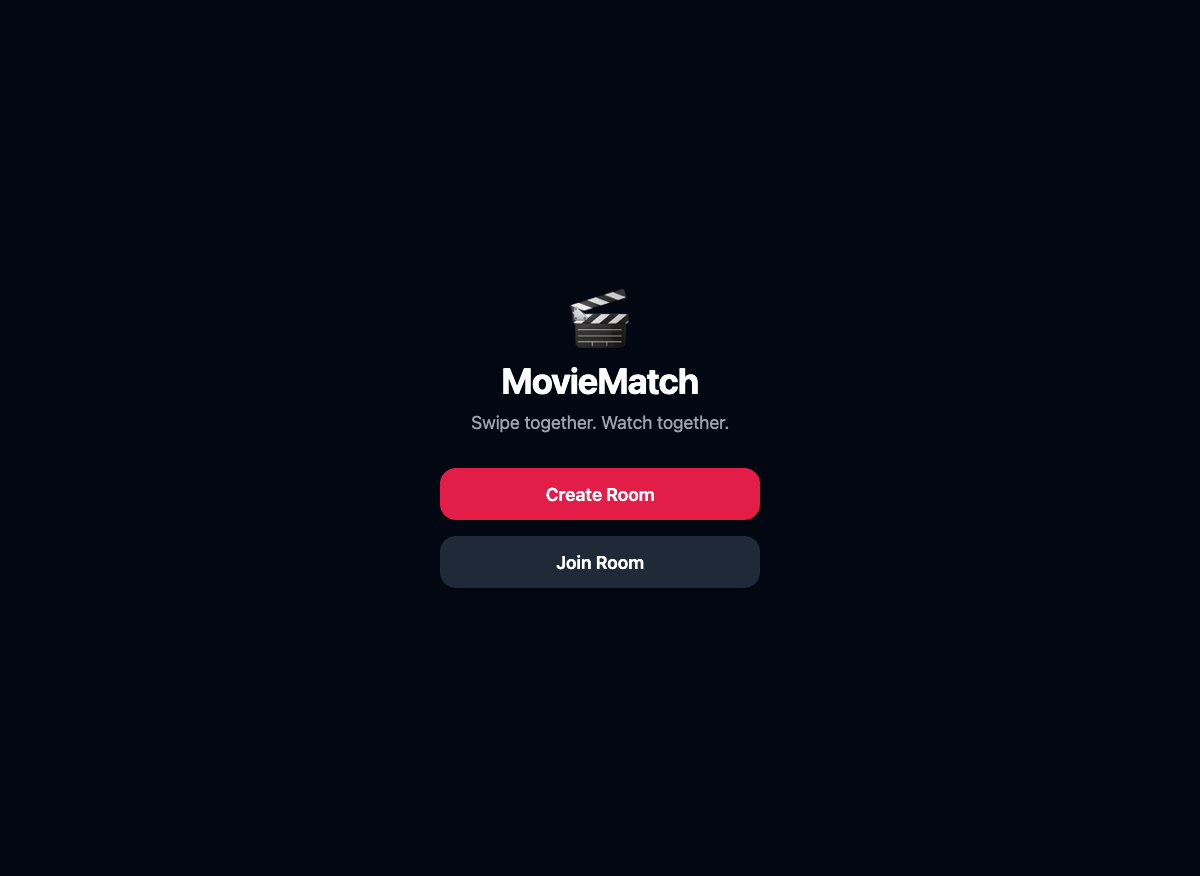
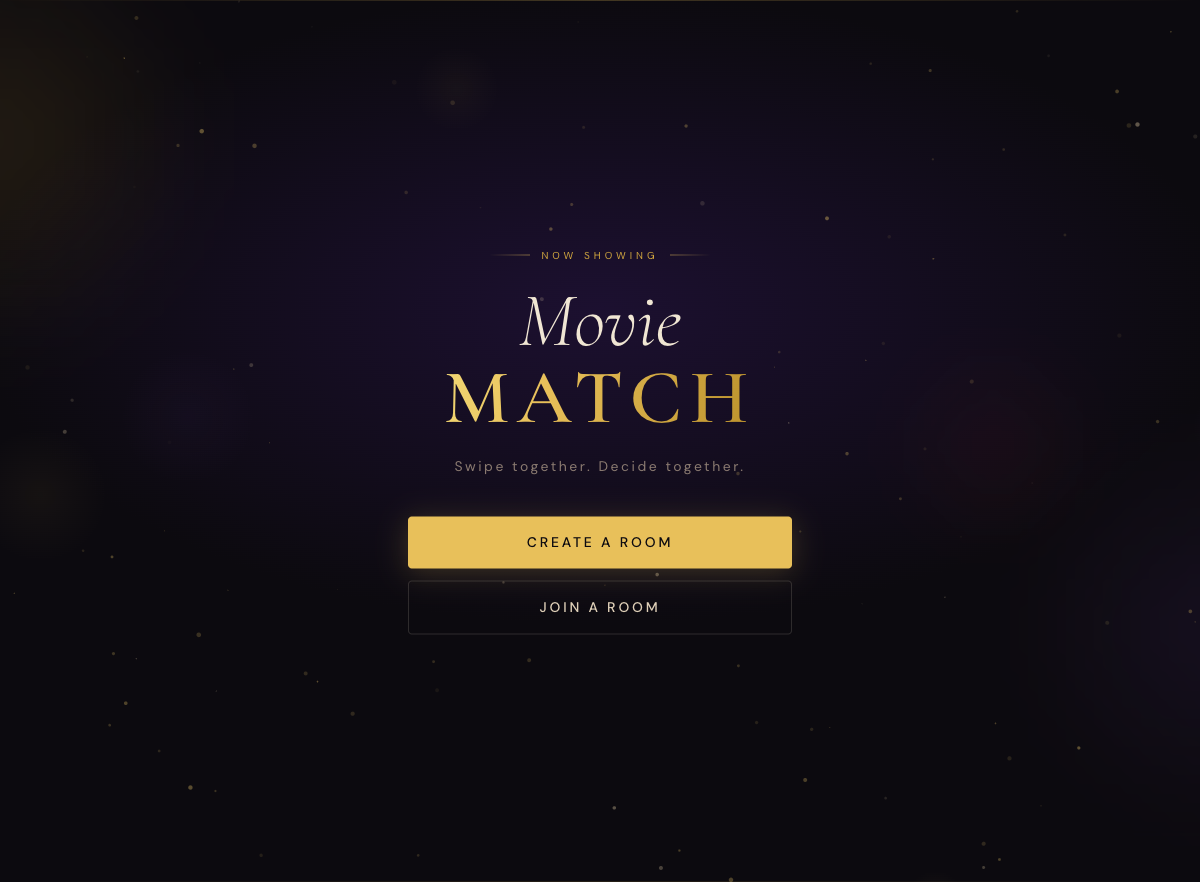
Update README and CLAUDE.md with new design, features, and screenshots
- Refreshed all screenshots to reflect the cinema noir redesign
- Added screenshots for filters form and match modal
- Updated README with Filters section, new Swiping/Joining details,
  and Vercel deployment notes
- Expanded CLAUDE.md with design system tokens, full socket event table,
  create-room payload schema, and detailed component descriptions
- Fix: emit partner-joined to joiner so both players see connected status

diff --git a/server/index.js b/server/index.js
@@ -65,10 +65,11 @@ io.on('connection', (socket) => {
     socket.join(room.id);
     socket.emit('room-joined', { roomId: room.id, movies: room.movies });
 
-    // Notify the creator
+    // Notify the creator and confirm to the joiner that their partner (creator) is present
     const creatorId = room.users.find(id => id !== socket.id);
     if (creatorId) {
       socket.to(room.id).emit('partner-joined');
+      socket.emit('partner-joined');
     }
     console.log('room joined', room.id, 'by', socket.id);
   });

diff --git a/README.md b/README.md
@@ -8,8 +8,8 @@ A real-time two-player movie swiping app. Both people swipe through movies simul
 
 ## How It Works
 
-1. One person creates a room and picks a genre
-2. They share the 6-letter room code with their partner
+1. One person creates a room and applies filters (genre, year, runtime, rating, language, age rating)
+2. They share the 6-letter room code — or just paste the full link
 3. Both swipe through the same 20 movies at their own pace
 4. When both swipe right on the same movie — match!
 
@@ -21,17 +21,21 @@ A real-time two-player movie swiping app. Both people swipe through movies simul
 
 ![Home](docs/screenshot-home.png)
 
-**Pick a Category**
+**Filters & Room Setup**
 
-![Category Picker](docs/screenshot-category.png)
+![Filters](docs/screenshot-filters.png)
+
+**Join a Room**
+
+![Join Room](docs/screenshot-join.png)
 
 **Swiping**
 
 ![Swiping](docs/screenshot-swiping.png)
 
-**Join a Room**
+**It's a Match**
 
-![Join Room](docs/screenshot-join.png)
+![Match](docs/screenshot-match.png)
 
 ---
 
@@ -42,7 +46,7 @@ A real-time two-player movie swiping app. Both people swipe through movies simul
 | Frontend | React 18, Vite, Tailwind CSS |
 | Backend | Node.js, Express, Socket.io |
 | Movies API | TMDB (The Movie Database) |
-| Deployment | Railway (backend) + any static host (frontend) |
+| Deployment | Railway (backend) + Vercel (frontend) |
 
 ---
 
@@ -104,16 +108,16 @@ movie-match/
 ├── client/               # React frontend
 │   └── src/
 │       ├── components/
-│       │   ├── MovieCard.jsx    # Swipe gestures + card UI
-│       │   └── MatchModal.jsx   # Match celebration popup
+│       │   ├── MovieCard.jsx    # Swipe gestures, card stack, 3D tilt
+│       │   └── MatchModal.jsx   # Match celebration popup with confetti
 │       └── pages/
-│           ├── Home.jsx         # Room creation / join
+│           ├── Home.jsx         # Room creation (with filters) / join
 │           └── Room.jsx         # Main swiping screen
 │
 ├── server/               # Node.js backend
 │   ├── index.js          # Express + Socket.io server
 │   ├── roomManager.js    # Room state + vote/match logic
-│   └── tmdb.js           # TMDB API wrapper
+│   └── tmdb.js           # TMDB API wrapper with filter support
 │
 ├── package.json          # Root — `npm run dev` starts both
 ├── railway.json          # Railway deployment config
@@ -122,16 +126,44 @@ movie-match/
 
 ---
 
+## Filters
+
+When creating a room you can narrow down the movie pool with:
+
+| Filter | Options |
+|---|---|
+| Genre | All, Action, Comedy, Horror, Romance, Sci-Fi, Drama, Animation, Thriller, Adventure, Fantasy, Crime |
+| Release Year | Dual-handle slider — 1900 to present |
+| Runtime | Any / < 90m / 90–130m / 130m+ |
+| Age Rating | Any / G / PG / PG-13 / R |
+| Language | Any / EN / ES / FR / KO / JA |
+| Min Rating | Slider from 0 to 8+ (TMDB vote average) |
+
+All filters are forwarded to TMDB's Discover API on the server.
+
+---
+
 ## Swiping
 
 Cards support both touch (mobile) and mouse (desktop):
 
 - **Drag right** → Like
-- **Drag left** → Nope
+- **Drag left** → Pass
 - **Quick flick** → Registers as a swipe even if short
-- **Buttons** → Tap ✕ or ♥ for the same effect with animation
+- **Buttons** → Tap Pass or Yes for the same effect with animation
+- **Card stack** → Ghost cards behind the current card scale forward as you drag, showing what's coming next
 
-A match is detected the moment both players have liked the same movie.
+A match is detected the moment both players have liked the same movie. A confetti-burst modal appears for both players simultaneously.
+
+---
+
+## Joining
+
+The second player can join by:
+
+- Entering the **6-letter room code** directly
+- Pasting the **full room link** (e.g. `https://your-app.com/room/ABCXYZ`)
+- Navigating directly to the room URL
 
 ---
 
@@ -149,27 +181,22 @@ The repo includes a `railway.json` that configures everything automatically.
 4. Add the environment variable: `TMDB_API_KEY=your_key`
 5. Deploy — Railway gives you a public URL like `https://movie-match-server.up.railway.app`
 
-### Frontend — Static Host (Vercel / Netlify / Railway)
+### Frontend — Vercel (via GitHub Actions)
 
-The client is a plain Vite build. Point it at your backend URL before building:
+The repo includes a GitHub Actions workflow (`.github/workflows/deploy.yml`) that deploys to Vercel on every push to `main`.
 
-1. In `client/src/socket.js`, set the server URL to your Railway backend URL
-2. Build: `npm run build --prefix client`
-3. Deploy the `client/dist/` folder to Vercel, Netlify, or any static host
+Set these secrets in your GitHub repo settings:
 
-#### Vercel (one-click)
+- `VERCEL_TOKEN`
+- `VERCEL_ORG_ID`
+- `VERCEL_PROJECT_ID`
+- `VITE_SERVER_URL` — your Railway backend URL
+
+#### Manual deploy
 
 ```bash
 cd client
 npx vercel --prod
-```
-
-#### Netlify
-
-```bash
-cd client
-npm run build
-npx netlify deploy --prod --dir dist
 ```
 
 ---
@@ -180,6 +207,7 @@ npx netlify deploy --prod --dir dist
 |---|---|---|
 | `TMDB_API_KEY` | Yes | Your TMDB v3 API key — get one free at [themoviedb.org](https://www.themoviedb.org/settings/api) |
 | `PORT` | No | Server port (defaults to `3001`) |
+| `VITE_SERVER_URL` | No | Points the frontend build at a deployed backend URL |
 
 ---
 

diff --git a/CLAUDE.md b/CLAUDE.md
@@ -41,27 +41,60 @@ MovieMatch is a real-time two-player movie swiping app. Two users join the same 
 
 - **`index.js`** — Express + Socket.io server. Handles all socket events and wires them to room logic.
 - **`roomManager.js`** — In-memory room state (a `Map`). Manages room creation, player tracking, vote recording, and match detection. No database — rooms exist only in memory.
-- **`tmdb.js`** — TMDB API wrapper. Fetches 3 random pages of popular movies, filters for ones with poster/title/overview, shuffles and returns 20 per room.
+- **`tmdb.js`** — TMDB API wrapper. Fetches 3 random pages via TMDB Discover, applies all filter params, shuffles and returns 20 per room. Filters: `genreId`, `yearFrom`, `yearTo`, `minRating`, `runtimeMin`, `runtimeMax`, `language`, `certification`.
 
 ### Frontend (`client/src/`)
 
 - **`socket.js`** — Singleton Socket.io client instance shared across the app.
 - **`App.jsx`** — React Router: two routes, `/` (Home) and `/room/:roomId` (Room).
-- **`pages/Home.jsx`** — Genre picker + room creation, plus join-by-code form. Emits `create-room` and navigates to the room page.
-- **`pages/Room.jsx`** — Main swiping UI. Listens for `partner-joined`, `partner-disconnected`, and `match` socket events. Drives the card stack.
-- **`components/MovieCard.jsx`** — Swipeable card with touch/mouse gesture detection, velocity-based flick recognition, spring-back on partial drag, and ♥/✕ button fallbacks.
-- **`components/MatchModal.jsx`** — Celebration overlay shown when a match occurs.
+- **`pages/Home.jsx`** — Two-step flow: mode picker (Create / Join), then either the filter form or the join input. Filter form includes genre grid (12 genres, 3-col with emoji), dual-handle year range slider (1900–present), runtime pills, age rating pills, language pills, and a min-rating slider. Accepts full room URLs in the join input (normalizes to 6-letter code client-side). Also renders `CinemaParticles` (canvas particle animation) and CSS floating gradient orbs.
+- **`pages/Room.jsx`** — Main swiping UI. Glassmorphism header (backdrop-blur) with clickable room code (copies share link to clipboard), gold progress bar, partner status banner (waiting / connected / disconnected), and "X of Y" counter. Shows a "done" screen with Start Over when all movies are swiped.
+- **`components/MovieCard.jsx`** — Swipeable card with touch/mouse gesture detection, velocity-based flick recognition, spring-back on partial drag. CSS `perspective`/`rotateY` adds a 3D tilt as you drag. LIKE/NOPE badge overlays appear proportionally to drag distance. Pass and Yes buttons trigger the same exit animation. Renders 2 ghost cards behind the active card that scale/fade forward as the user drags (card stack effect).
+- **`components/MatchModal.jsx`** — Celebration overlay with 32-piece deterministic confetti burst (clipped to card bounds), gold accent bar, ornamental "Perfect Match" header, pulsing gold ring animation on the poster, movie year + rating, and "Keep Swiping →" dismiss button.
+
+### Design System (`client/tailwind.config.js`, `client/src/index.css`)
+
+Cinema noir aesthetic. Custom Tailwind color scales:
+
+| Scale | Usage |
+|---|---|
+| `noir-950/900/800/700/600` | Backgrounds (near-black purples) |
+| `gold-300/400/500/600` | Primary actions, accents, match highlights |
+| `crimson-400/500/600` | Pass/reject actions, error states |
+| `cream-100–600` | Text hierarchy (light to muted) |
+
+Fonts: `font-display` = Cormorant Garamond (serif, used for headings/titles), `font-sans` = DM Sans, `font-mono` = DM Mono.
+
+CSS animations defined in `index.css`: `fadeUp`, `floatOrb`, `shimmerText`, `confettiFall`, `pulseGlow`, `ringPulse`.
 
 ### Socket Event Flow
 
 | Event | Direction | Description |
 |---|---|---|
-| `create-room` | client → server | Create room with genreId; server responds with roomId + movies |
-| `join-room` | client → server | Join by 6-letter code |
-| `partner-joined` | server → client | Broadcast to creator when second player joins |
-| `vote` | client → server | Send `{ movieId, liked }` |
-| `match` | server → client | Broadcast to room when both players liked same movie |
+| `create-room` | client → server | Create room with filter params (see below); server responds with `room-created` |
+| `join-room` | client → server | Join by 6-letter code (or normalized from URL) |
+| `room-created` | server → client | `{ roomId, movies }` — response to creator |
+| `room-joined` | server → client | `{ roomId, movies }` — response to joiner |
+| `partner-joined` | server → client | Emitted to both players when the second player joins |
+| `vote` | client → server | `{ roomId, movieId, liked }` |
+| `match` | server → client | `movie` object broadcast to room when both liked same film |
 | `partner-disconnected` | server → client | Broadcast when other player's socket disconnects |
+| `error` | server → client | String error message (e.g. room not found, no movies matched filters) |
+
+#### `create-room` payload
+
+```js
+{
+  genreId,       // TMDB genre ID (null = all)
+  yearFrom,      // e.g. 1990
+  yearTo,        // e.g. 2024
+  minRating,     // 0–8 (TMDB vote_average)
+  runtimeMin,    // minutes
+  runtimeMax,    // minutes
+  language,      // ISO 639-1 code e.g. 'en', 'ko'
+  certification, // US rating e.g. 'PG-13', 'R' (applied as .lte)
+}
+```
 
 ### Client State
 
